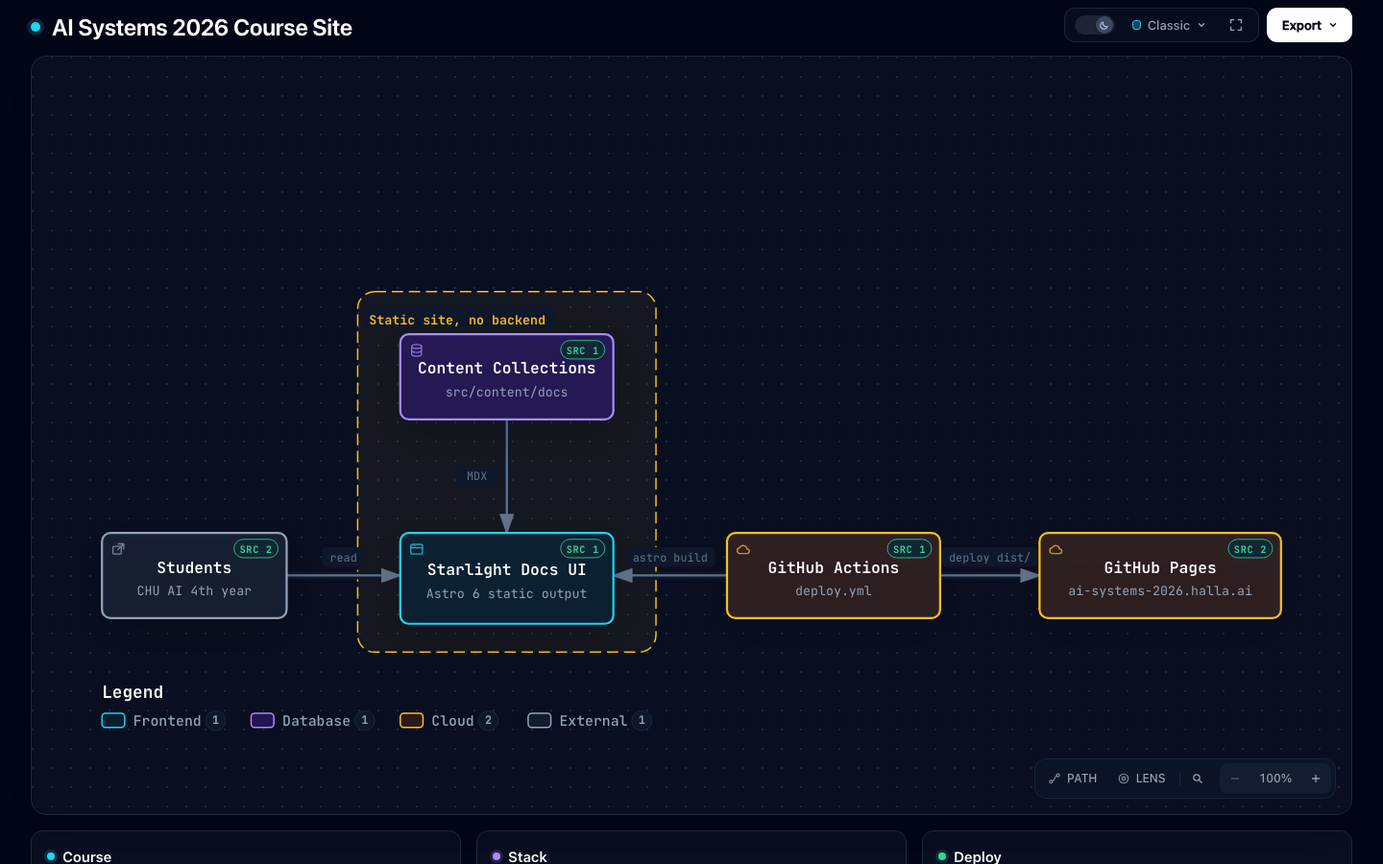
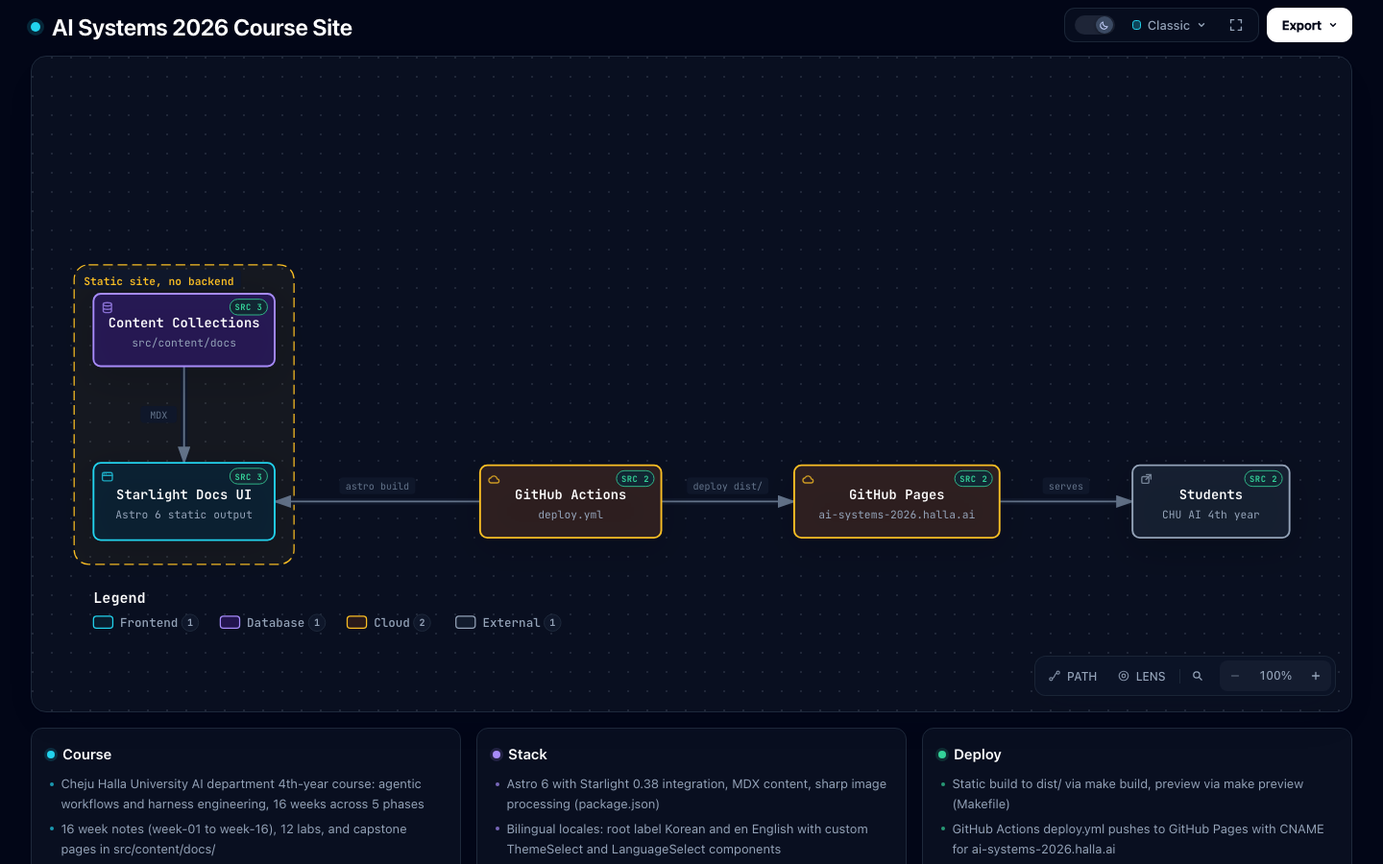
docs(archify): address pre-merge review findings
- Connect the served site to its readers truthfully: Students no longer
  read the docs UI directly; GitHub Pages now "serves" them, after
  Actions builds the site and deploys dist/. Reflowed into one row.
- actions: cite the push-to-main trigger (deploy.yml L3-6) behind the
  "push on main" tag.
- content: cite the sidebar lists of week-01..week-16 (astro.config.mjs
  L84-133) and lab-01..lab-12 (L135-154) behind "16 weeks + 12 labs".
- frontend: cite package.json L20-22 (astro ^6.1.3, starlight ^0.38.2)
  and src/styles/custom.css L41 (Space Grotesk site font).
- Tighten the boundary pad so the "astro build" label clears it.

Gates: finalize (validate, deliver, check, browser-check) pass with
--repo-root; visual-check pass with --require-provenance.

diff --git a/docs/ai-systems-2026-rendered.html b/docs/ai-systems-2026-rendered.html
@@ -4982,12 +4982,12 @@ OTHER DEALINGS IN THE FONT SOFTWARE.
       </div>
     </div>
 
-    <script id="archify-source-evidence-data" type="application/json">{"schemaVersion":1,"verified":true,"repository":{"url":"https://github.com/halla-ai/ai-systems-2026","revision":"c8fc01a9d5f91cdddad9e2bacbf1bbf4fe9ee9ef","shortRevision":"c8fc01a","label":"halla-ai/ai-systems-2026","href":"https://github.com/halla-ai/ai-systems-2026/tree/c8fc01a9d5f91cdddad9e2bacbf1bbf4fe9ee9ef"},"referenceCount":7,"nodes":{"actions":[{"path":".github/workflows/deploy.yml","line":18,"endLine":51,"label":"build job runs astro build","href":"https://github.com/halla-ai/ai-systems-2026/blob/c8fc01a9d5f91cdddad9e2bacbf1bbf4fe9ee9ef/.github/workflows/deploy.yml#L18-L51"}],"content":[{"path":"src/content.config.ts","line":5,"endLine":23,"label":"Starlight docs collection","href":"https://github.com/halla-ai/ai-systems-2026/blob/c8fc01a9d5f91cdddad9e2bacbf1bbf4fe9ee9ef/src/content.config.ts#L5-L23"}],"student":[{"path":"astro.config.mjs","line":48,"label":"course audience","href":"https://github.com/halla-ai/ai-systems-2026/blob/c8fc01a9d5f91cdddad9e2bacbf1bbf4fe9ee9ef/astro.config.mjs#L48"},{"path":"README.md","line":69,"endLine":76,"label":"assignment PRs","href":"https://github.com/halla-ai/ai-systems-2026/blob/c8fc01a9d5f91cdddad9e2bacbf1bbf4fe9ee9ef/README.md#L69-L76"}],"frontend":[{"path":"astro.config.mjs","line":16,"label":"starlight() integration","href":"https://github.com/halla-ai/ai-systems-2026/blob/c8fc01a9d5f91cdddad9e2bacbf1bbf4fe9ee9ef/astro.config.mjs#L16"}],"pages":[{"path":".github/workflows/deploy.yml","line":53,"endLine":63,"label":"deploy-pages job","href":"https://github.com/halla-ai/ai-systems-2026/blob/c8fc01a9d5f91cdddad9e2bacbf1bbf4fe9ee9ef/.github/workflows/deploy.yml#L53-L63"},{"path":"public/CNAME","line":1,"label":"custom domain","href":"https://github.com/halla-ai/ai-systems-2026/blob/c8fc01a9d5f91cdddad9e2bacbf1bbf4fe9ee9ef/public/CNAME#L1"}]}}</script>
+    <script id="archify-source-evidence-data" type="application/json">{"schemaVersion":1,"verified":true,"repository":{"url":"https://github.com/halla-ai/ai-systems-2026","revision":"c8fc01a9d5f91cdddad9e2bacbf1bbf4fe9ee9ef","shortRevision":"c8fc01a","label":"halla-ai/ai-systems-2026","href":"https://github.com/halla-ai/ai-systems-2026/tree/c8fc01a9d5f91cdddad9e2bacbf1bbf4fe9ee9ef"},"referenceCount":12,"nodes":{"actions":[{"path":".github/workflows/deploy.yml","line":3,"endLine":6,"label":"push to main trigger","href":"https://github.com/halla-ai/ai-systems-2026/blob/c8fc01a9d5f91cdddad9e2bacbf1bbf4fe9ee9ef/.github/workflows/deploy.yml#L3-L6"},{"path":".github/workflows/deploy.yml","line":18,"endLine":51,"label":"build job runs astro build","href":"https://github.com/halla-ai/ai-systems-2026/blob/c8fc01a9d5f91cdddad9e2bacbf1bbf4fe9ee9ef/.github/workflows/deploy.yml#L18-L51"}],"content":[{"path":"src/content.config.ts","line":5,"endLine":23,"label":"Starlight docs collection","href":"https://github.com/halla-ai/ai-systems-2026/blob/c8fc01a9d5f91cdddad9e2bacbf1bbf4fe9ee9ef/src/content.config.ts#L5-L23"},{"path":"astro.config.mjs","line":84,"endLine":133,"label":"week-01 to week-16 in sidebar","href":"https://github.com/halla-ai/ai-systems-2026/blob/c8fc01a9d5f91cdddad9e2bacbf1bbf4fe9ee9ef/astro.config.mjs#L84-L133"},{"path":"astro.config.mjs","line":135,"endLine":154,"label":"lab-01 to lab-12 in sidebar","href":"https://github.com/halla-ai/ai-systems-2026/blob/c8fc01a9d5f91cdddad9e2bacbf1bbf4fe9ee9ef/astro.config.mjs#L135-L154"}],"student":[{"path":"astro.config.mjs","line":48,"label":"course audience","href":"https://github.com/halla-ai/ai-systems-2026/blob/c8fc01a9d5f91cdddad9e2bacbf1bbf4fe9ee9ef/astro.config.mjs#L48"},{"path":"README.md","line":69,"endLine":76,"label":"assignment PRs","href":"https://github.com/halla-ai/ai-systems-2026/blob/c8fc01a9d5f91cdddad9e2bacbf1bbf4fe9ee9ef/README.md#L69-L76"}],"frontend":[{"path":"astro.config.mjs","line":16,"label":"starlight() integration","href":"https://github.com/halla-ai/ai-systems-2026/blob/c8fc01a9d5f91cdddad9e2bacbf1bbf4fe9ee9ef/astro.config.mjs#L16"},{"path":"package.json","line":20,"endLine":22,"label":"astro ^6.1.3, starlight ^0.38.2","href":"https://github.com/halla-ai/ai-systems-2026/blob/c8fc01a9d5f91cdddad9e2bacbf1bbf4fe9ee9ef/package.json#L20-L22"},{"path":"src/styles/custom.css","line":41,"label":"Space Grotesk site font","href":"https://github.com/halla-ai/ai-systems-2026/blob/c8fc01a9d5f91cdddad9e2bacbf1bbf4fe9ee9ef/src/styles/custom.css#L41"}],"pages":[{"path":".github/workflows/deploy.yml","line":53,"endLine":63,"label":"deploy-pages job","href":"https://github.com/halla-ai/ai-systems-2026/blob/c8fc01a9d5f91cdddad9e2bacbf1bbf4fe9ee9ef/.github/workflows/deploy.yml#L53-L63"},{"path":"public/CNAME","line":1,"label":"custom domain","href":"https://github.com/halla-ai/ai-systems-2026/blob/c8fc01a9d5f91cdddad9e2bacbf1bbf4fe9ee9ef/public/CNAME#L1"}]}}</script>
     <script id="archify-i18n-data" type="application/json">{"locale":"en","messages":{"viewer.kind.frontend":"Frontend","viewer.kind.backend":"Backend","viewer.kind.database":"Database","viewer.kind.cloud":"Cloud","viewer.kind.security":"Security","viewer.kind.messagebus":"Message bus","viewer.kind.external":"External","viewer.kind.neutral":"Neutral","viewer.kind.node":"Node","viewer.kind.start":"Start","viewer.kind.active":"Active","viewer.kind.waiting":"Waiting","viewer.kind.decision":"Decision","viewer.kind.success":"Success","viewer.kind.failure":"Failure","viewer.toolbar.actions":"Diagram actions","viewer.theme.toggle.title":"Toggle theme (T)","viewer.theme.toggle":"Toggle color theme","viewer.theme.dark":"Dark","viewer.theme.light":"Light","viewer.preset.choose.title":"Choose visual style (S cycles)","viewer.preset.choose":"Choose visual style","viewer.preset.style":"Style","viewer.preset.menu":"Visual style","viewer.preset.identity":"Visual identity","viewer.preset.cycles":"to cycle","viewer.preset.classic":"Classic","viewer.preset.classic.short":"Classic","viewer.preset.classic.hint":"Stable technical default","viewer.preset.flow":"Signal Flow","viewer.preset.flow.short":"Flow","viewer.preset.flow.hint":"Motion-forward presentation","viewer.preset.blueprint":"Blueprint","viewer.preset.blueprint.hint":"Engineering review","viewer.preset.editorial":"Editorial","viewer.preset.editorial.hint":"Publication and launch notes","viewer.preset.badge.signalFlow":"SIGNAL FLOW","viewer.preset.badge.blueprint":"BLUEPRINT / REV 01","viewer.preset.badge.editorial":"EDITORIAL / FIELD NOTE","viewer.preset.badge.editorialPlate":"ARCHIFY / PLATE 04","viewer.preset.current":"Visual style: {style}. Choose visual style","viewer.motion.live":"Live","viewer.motion.still":"Still","viewer.motion.pause":"Pause motion","viewer.motion.resume":"Resume motion","viewer.motion.reduced":"Motion paused by reduced-motion preference","viewer.motion.hidden":"Motion paused while this page is hidden","viewer.motion.yielding":"Pause motion; currently yielding to {owner}","viewer.motion.yielding.title":"Live preview enabled · yielding to {owner}","viewer.owner.route":"Route Probe","viewer.owner.lens":"Semantic Lens","viewer.owner.relationship":"Relationship Preview","viewer.owner.intent":"Intent Trace","viewer.owner.focus":"semantic focus","viewer.owner.legend":"legend preview","viewer.owner.reader":"reader interaction","viewer.present.enter":"Enter presentation stage","viewer.present.enter.title":"Presentation stage (F)","viewer.present.exit":"Exit presentation stage","viewer.present.exit.title":"Exit presentation stage (F or Escape)","viewer.present.present":"Present","viewer.present.exit.label":"Exit","viewer.export.button":"Export","viewer.export.button.title":"Export diagram (E)","viewer.export.diagram":"Export diagram","viewer.export.menu":"Export","viewer.export.subtitle":"Portable, clean outputs","viewer.export.share":"Share","viewer.export.shareCard":"Share Card","viewer.export.routeShareCard":"Route Share Card","viewer.export.reachShareCard":"Reach Share Card","viewer.export.copyDiagram":"Copy diagram","viewer.export.clipboardPng":"PNG to clipboard","viewer.export.raster":"Raster images","viewer.export.image":"Image","viewer.export.lossless":"Lossless image","viewer.export.compact":"Compact image","viewer.export.modern":"Modern image","viewer.export.vectorMotion":"Vector and motion","viewer.export.vectorMotion.heading":"Vector \u0026 motion","viewer.export.editable":"Editable vector","viewer.export.svg.auto":"SVG · Auto","viewer.export.svg.auto.hint":"Matches host theme","viewer.export.svg.light":"SVG · Light","viewer.export.svg.light.hint":"Always light","viewer.export.svg.dark":"SVG · Dark","viewer.export.svg.dark.hint":"Always dark","viewer.export.motion6s":"6s motion","viewer.export.unsupported":"Not supported by this browser","viewer.export.clipboardUnsupported":"Clipboard image write not supported by this browser","viewer.export.clipboardUnsupported.short":"Clipboard image write not supported in this browser.","viewer.export.motionUnavailable":"Motion capture unavailable in this browser","viewer.export.webmUnavailable":"WebM unavailable in this browser","viewer.export.failed":"Export failed: {message}","viewer.export.unknownVariant":"Unknown Share Card variant: {variant}","viewer.export.routeRequired":"Trace a route before exporting a Route Share Card","viewer.export.reachRequired":"Trace authored reach before exporting a Reach Share Card","viewer.export.unknown":"unknown","viewer.export.routeFailed":"Route Share Card export failed: {message}","viewer.export.reachFailed":"Reach Share Card export failed: {message}","viewer.export.copyFailed":"Copy failed: {message}","viewer.export.copiedPng":"Copied PNG to clipboard","viewer.export.downloadedRoute":"Downloaded Route Share Card","viewer.export.downloadedReach":"Downloaded Reach Share Card","viewer.export.downloadedWebm":"Downloaded WebM","viewer.export.recording":"Recording 6 seconds of motion…","viewer.export.card.routeSummary.one":"Path: {source} → {target} · {count} step","viewer.export.card.routeSummary.other":"Path: {source} → {target} · {count} steps","viewer.export.card.reachSummary":"Authored {direction} from {origin} · {nodes} · {links} · max {hops}","viewer.export.card.node.one":"{count} node","viewer.export.card.node.other":"{count} nodes","viewer.export.card.link.one":"{count} link","viewer.export.card.link.other":"{count} links","viewer.export.card.hop.one":"{count} hop","viewer.export.card.hop.other":"{count} hops","viewer.export.card.routeBadge":"ARCHIFY · ROUTE · {hops}","viewer.export.card.reachBadge":"ARCHIFY · {direction} REACH","viewer.export.direction.upstream":"Upstream","viewer.export.direction.downstream":"Downstream","viewer.export.error.canvasUnavailable":"Canvas unavailable for {label}","viewer.export.error.contextUnavailable":"2D canvas context unavailable for {label}","viewer.export.error.toBlobUnavailable":"canvas.toBlob unavailable for {label}","viewer.export.error.toBlobNull":"canvas.toBlob returned no data for {label}","viewer.export.error.variantsCombined":"Share Card variants cannot be combined","viewer.export.error.viewerState":"Share Card export could not remove temporary viewer state","viewer.export.error.routeState":"Route Card export could not preserve the resolved route safely","viewer.export.error.reachState":"Reach Card export could not preserve authored reach safely","viewer.export.error.webmRequirements":"WebM motion export requires a trace animation and browser MediaRecorder support","viewer.export.error.mediaRecorder":"MediaRecorder failed","viewer.export.error.emptyWebm":"MediaRecorder produced an empty WebM","viewer.export.error.webmBackground":"SVG background could not be loaded for WebM export","viewer.guide.title":"Explore this system","viewer.focus.selectedNodes":"{count} selected nodes","viewer.guide.eyebrow":"Diagram guide","viewer.guide.close":"Close diagram guide","viewer.guide.inspecting":"Inspecting compiled semantics","viewer.guide.actions":"Diagram exploration actions","viewer.guide.find":"Find any node","viewer.guide.find.hint":"Search labels, responsibilities, kinds, and stable IDs.","viewer.guide.route":"Trace a route","viewer.guide.route.aria":"Trace a directed route","viewer.guide.route.hint":"Ask how two semantic nodes connect in authored direction.","viewer.guide.map":"See the whole system","viewer.guide.map.hint":"Open Semantic Radar with a live viewport and stable nodes.","viewer.guide.lens":"Compare semantic kinds","viewer.guide.lens.hint":"Count roles, reveal their traffic, and compare direct authored links.","viewer.guide.present":"Enter Presentation Stage","viewer.guide.present.hint":"Give the live diagram the viewport without changing export.","viewer.guide.shortcuts":"Additional keyboard shortcuts","viewer.guide.shortcut.export":"Export","viewer.guide.shortcut.theme":"Theme","viewer.guide.shortcut.style":"Style","viewer.guide.shortcut.reset":"Reset","viewer.guide.shortcut.zoomIn":"Zoom in","viewer.guide.shortcut.zoomOut":"Zoom out","viewer.guide.shortcut.close":"Close","viewer.guide.facts":"{nodes} · {relationships}","viewer.guide.fact.node.one":"{count} semantic node","viewer.guide.fact.node.other":"{count} semantic nodes","viewer.guide.fact.relationship.one":"{count} relationship","viewer.guide.fact.relationship.other":"{count} relationships","viewer.guide.open":"Open diagram guide","viewer.finder.title":"Find a node","viewer.finder.close":"Close node finder","viewer.finder.placeholder":"Search labels or IDs","viewer.finder.search":"Search diagram nodes","viewer.finder.results":"Diagram nodes","viewer.finder.empty":"No matching nodes","viewer.finder.result.focus":"Focus {label}","viewer.finder.result.routeStart":"Choose {label} as route start","viewer.finder.result.routeTarget":"Choose {label} as route destination, {links}","viewer.finder.status.empty":"No matching nodes","viewer.finder.status.count.one":"{count} matching node","viewer.finder.status.count.other":"{count} matching nodes","viewer.finder.noun.nodes":"nodes","viewer.finder.link.one":"{count} link","viewer.finder.link.other":"{count} links","viewer.finder.result.focus.one":"Focus {label}, {count} related connection","viewer.finder.result.focus.other":"Focus {label}, {count} related connections","viewer.finder.status.filtered":"{visible} of {available} {noun}","viewer.finder.status.all":"{available} {noun}","viewer.passport.eyebrow":"Semantic passport","viewer.passport.metadata":"Node metadata","viewer.passport.evidence":"Verified source evidence","viewer.passport.verified":"Verified source","viewer.passport.verificationScope":"Verified against local Git at the pinned revision. Remote access has not been checked.","viewer.passport.reach":"Authored reach","viewer.passport.reach.trace":"Trace authored reachability","viewer.passport.upstream":"Upstream","viewer.passport.downstream":"Downstream","viewer.passport.upstream.trace":"Trace upstream authored reachability","viewer.passport.downstream.trace":"Trace downstream authored reachability","viewer.passport.close":"Close semantic passport","viewer.passport.move":"Move semantic passport. Drag, use arrow keys, or press Home to reset.","viewer.passport.copy":"Copy link","viewer.passport.copy.focus":"Copy link to focused node","viewer.passport.relations":"Relations","viewer.passport.relations.show":"Show connected relationships","viewer.passport.relations.hide":"Hide connected relationships","viewer.passport.relations.list":"Connected relationships","viewer.passport.copyRelation":"Copy relation","viewer.passport.copyNode":"Copy node","viewer.passport.copyPinned":"Copy link to pinned relationship","viewer.passport.copySource":"Copy link to source node","viewer.passport.copy.focused.success":"Focused node link copied","viewer.passport.copy.pinned.success":"Pinned relationship link copied","viewer.passport.copy.focused.failed":"Could not copy focused node link","viewer.passport.copy.pinned.failed":"Could not copy pinned relationship link","viewer.passport.relationship.none":"No connected relationships","viewer.passport.relationship.count.one":"{count} relation","viewer.passport.relationship.count.other":"{count} relations","viewer.passport.relationship.show.one":"Show {count} connected relationship","viewer.passport.relationship.show.other":"Show {count} connected relationships","viewer.passport.relationship.summary":"{out} outgoing · {in} incoming{loops}","viewer.passport.relationship.loops":" · {count} loop","viewer.passport.relationship.explorer":"Direct relationship explorer","viewer.passport.relationship.help":"Use arrow keys to explore relationships. Press Enter or Space to pin details; Escape clears.","viewer.passport.relationship.loopsBack":"loops back","viewer.passport.relationship.connectsTo":"connects to","viewer.passport.relationship.connectsFrom":"connects from","viewer.passport.relationship.pinned":"Pinned relationship · {from} → {to} · {label}","viewer.passport.relationship.inspect":"Inspect relationship {index} of {total}: {from} to {to}, {label}. Press Enter for details.","viewer.passport.relationship.group.out":"Outgoing","viewer.passport.relationship.group.in":"Incoming","viewer.passport.relationship.group.loop":"Self loops","viewer.passport.relationship.row":"{group}: {relationship}, {neighbor}","viewer.passport.relationship.direction.out":"OUT →","viewer.passport.relationship.direction.in":"← IN","viewer.passport.relationship.direction.loop":"LOOP","viewer.passport.sourceCount.one":"{count} verified source reference","viewer.passport.sourceCount.other":"{count} verified source references","viewer.passport.sourceMarker":"SRC","viewer.passport.beacon.one":"{count} verified source; focus this node to inspect","viewer.passport.beacon.other":"{count} verified sources; focus this node to inspect","viewer.passport.repository.open":"Open verified repository revision {revision}","viewer.passport.source.open":"Open verified source {path} at revision {revision}","viewer.passport.source.openLink":"Open ↗","viewer.passport.reach.upstream.one":"Trace {count} upstream authored node","viewer.passport.reach.upstream.other":"Trace {count} upstream authored nodes","viewer.passport.reach.downstream.one":"Trace {count} downstream authored node","viewer.passport.reach.downstream.other":"Trace {count} downstream authored nodes","viewer.passport.reach.noUpstream":"No upstream authored nodes","viewer.passport.reach.noDownstream":"No downstream authored nodes","viewer.passport.reach.status":"{direction} · {nodes} nodes · {links} links · max {hops} hops","viewer.route.eyebrow":"Path","viewer.route.start":"Click where the path starts","viewer.route.start.find":"Find start","viewer.route.start.find.aria":"Find a route start","viewer.route.copy":"Copy link","viewer.route.copy.aria":"Copy link to traced route","viewer.route.clear":"Clear","viewer.route.clear.aria":"Clear route probe","viewer.route.traced":"Path","viewer.route.pickTwo":"Click two nodes on the diagram","viewer.route.pickOne":"Click a node on the diagram","viewer.route.controls":"Route journey controls","viewer.route.previous":"Previous route position","viewer.route.play":"Play route journey","viewer.route.pause":"Pause route journey","viewer.route.replay":"Replay route journey","viewer.route.next":"Next route position","viewer.route.journey":"Journey","viewer.route.pause.label":"Pause","viewer.route.replay.label":"Replay","viewer.route.overview":"Overview","viewer.route.overview.aria":"Show complete route overview","viewer.route.instructions":"Click a start, then an end. Paths follow the arrows.","viewer.route.destination":"Where does the path from {label} end?","viewer.route.destination.find":"Find target","viewer.route.destination.find.aria":"Find a reachable route destination","viewer.route.differentDestination":"Choose a different destination","viewer.route.distinct":"Pick two different nodes.","viewer.route.unreachable":"Cannot reach {label} from here","viewer.route.unreachable.detail":"{target} cannot be reached from {source} along the arrows. Pick a highlighted node.","viewer.route.start.instructions":"Next, pick the end. Only nodes you can reach will light up.","viewer.route.copy.success":"Traced route link copied","viewer.route.copy.failed":"Could not copy traced route link","viewer.route.position":"Route position {index} of {total}: {label}","viewer.route.step":"Step {index} of {total} · {phase} · {label}","viewer.route.motionRequired":"Automatic journey requires Live motion","viewer.route.trigger.clear":"Clear traced route","viewer.route.overview.status":"{nodes} · {hops} · shortest path","viewer.route.overview.node.one":"{count} node","viewer.route.overview.node.other":"{count} nodes","viewer.route.overview.hop.one":"{count} step","viewer.route.overview.hop.other":"{count} steps","viewer.route.phase.playing":"Playing","viewer.route.phase.complete":"Complete","viewer.route.phase.inspecting":"Inspecting","viewer.route.destination.count.one":"{count} reachable node is highlighted. Click it.","viewer.route.destination.count.other":"{count} reachable nodes are highlighted. Click one.","viewer.route.noOutgoing":"No arrows lead out of this node. Clear it and pick another start.","viewer.route.result.title":"{source} to {target}","viewer.route.finder.source.title":"Choose route start","viewer.route.finder.source.placeholder":"Search route sources","viewer.route.finder.source.empty":"No matching route sources","viewer.route.finder.source.results":"Nodes that can start a route","viewer.route.finder.source.noun":"route sources","viewer.route.finder.source.badge":"start","viewer.route.finder.target.title":"Destination from {label}","viewer.route.finder.target.placeholder":"Search reachable destinations","viewer.route.finder.target.empty":"No matching reachable destinations","viewer.route.finder.target.results":"Reachable route destinations","viewer.route.finder.target.noun":"reachable destinations","viewer.route.hop.one":"{count} hop","viewer.route.hop.other":"{count} hops","viewer.lens.eyebrow":"Semantic lens","viewer.lens.title":"Compare system roles","viewer.lens.close":"Close semantic lens","viewer.lens.instruction":"Choose up to two semantic kinds. One reveals its real traffic; two compare only direct authored relationships.","viewer.lens.kinds":"Semantic kinds","viewer.lens.choose":"Choose a kind to inspect its nodes and touching relationships.","viewer.lens.copy":"Copy link to semantic lens","viewer.lens.clear":"Clear semantic lens","viewer.lens.open":"Open semantic lens","viewer.lens.openActive":"Open active semantic lens","viewer.lens.legend":"Semantic legend","viewer.lens.legend.inspect.one":"Inspect {label}, {count} node","viewer.lens.legend.inspect.other":"Inspect {label}, {count} nodes","viewer.lens.kind.count.one":"{label}, {count} node","viewer.lens.kind.count.other":"{label}, {count} nodes","viewer.lens.compare.one":"{first} → {second}: {forward} · {second} → {first}: {reverse} · {count} direct relationship","viewer.lens.compare.other":"{first} → {second}: {forward} · {second} → {first}: {reverse} · {count} direct relationships","viewer.lens.single":"{nodes} · {relationships} · connected peers remain visible","viewer.lens.node.one":"{count} {label} node","viewer.lens.node.other":"{count} {label} nodes","viewer.lens.relationship.one":"{count} touching relationship","viewer.lens.relationship.other":"{count} touching relationships","viewer.radar.title":"Semantic radar","viewer.radar.building":"Building overview","viewer.radar.openFull":"Open full semantic radar","viewer.radar.open":"Open radar","viewer.radar.close":"Close semantic radar","viewer.radar.surface":"Diagram overview. Click a node to focus it, or use arrow keys to pan.","viewer.radar.click":"Click node","viewer.radar.drag":"Drag to pan","viewer.radar.space":"Semantic radar needs more MAP space.","viewer.radar.nodes":"Semantic diagram radar nodes","viewer.radar.focus":"Focus {label} from Semantic Radar","viewer.radar.status":"{count} nodes · {viewport}","viewer.radar.fullMap":"{count} nodes · full map","viewer.radar.compacted":"Radar compacted to avoid covering the Semantic Passport or MAP controls.","viewer.radar.cancelWaiting":"Cancel semantic radar waiting for more MAP space","viewer.radar.needsSpace":"Semantic radar needs more visible MAP space","viewer.radar.viewport.full":"full map","viewer.radar.viewport.width":"{percent}% width","viewer.radar.viewport.scale":"{percent}% viewport","viewer.nav.controls":"Diagram view controls","viewer.nav.route":"Trace a directed route","viewer.nav.route.title":"Trace route (R)","viewer.nav.route.short":"PATH","viewer.nav.radar":"Open semantic radar","viewer.nav.radar.title":"Semantic radar (M)","viewer.nav.radar.short":"MAP","viewer.nav.lens":"Open semantic lens","viewer.nav.lens.title":"Semantic lens (L)","viewer.nav.lens.short":"LENS","viewer.nav.find":"Find a node","viewer.nav.find.title":"Find a node (/)","viewer.outline.title":"Node index","viewer.rail.show":"Notes \u0026 index","viewer.rail.controls":"Side panel","viewer.rail.collapse":"Collapse side panel","viewer.rail.bottom":"Move panel below the diagram","viewer.rail.right":"Move panel beside the diagram","viewer.nav.guide":"Open diagram guide","viewer.nav.guide.title":"Diagram guide (?)","viewer.nav.zoomOut":"Zoom out","viewer.nav.zoomOut.title":"Zoom out (-)","viewer.nav.reset":"Reset diagram view","viewer.nav.reset.title":"Reset view (0)","viewer.nav.read":"READ","viewer.nav.zoomIn":"Zoom in","viewer.nav.zoomIn.title":"Zoom in (+)","viewer.nav.camera":"{hint}. Reset diagram view","viewer.nav.camera.title":"{semantic}{hint} · reset view (0)","viewer.nav.camera.semantic":"Semantic camera active · ","viewer.nav.level.map":"MAP","viewer.nav.level.read":"READ","viewer.nav.level.full":"FULL","viewer.nav.level.auto":"AUTO","viewer.nav.detail.map":"Zoom in to reveal relationship labels and node context","viewer.nav.detail.read":"Zoom in again to reveal tags and annotations","viewer.nav.detail.full":"Full diagram detail","viewer.intent.summary":"{label}. {out} outgoing, {in} incoming{loops}. {total} connections. Press Enter for details.","viewer.intent.loops":", {count} self loop","viewer.common.copied":"Copied","viewer.common.copyFailed":"Copy failed","viewer.common.copyLink":"Copy link","viewer.common.clear":"Clear","viewer.common.close":"Close"}}</script>
     <!-- Main Diagram -->
     <div class="diagram-container" data-detail-level="read"
          data-preset-badge-editorial-plate="ARCHIFY / PLATE 04">
-      <svg viewBox="0 0 910 482" role="img" lang="en" aria-labelledby="archify-diagram-title archify-diagram-description" data-preset="classic" data-quality-profile="showcase" data-reader-fit="intrinsic-height" data-reader-min-text="7.5" data-reader-primary-text="14">
+      <svg viewBox="0 0 1070 482" role="img" lang="en" aria-labelledby="archify-diagram-title archify-diagram-description" data-preset="classic" data-quality-profile="showcase" data-reader-fit="intrinsic-height" data-reader-min-text="7.5" data-reader-primary-text="14">
         <title id="archify-diagram-title">AI Systems 2026 Course Site</title>
         <desc id="archify-diagram-description">An architecture diagram generated by Archify.</desc>
         <!-- Definitions -->
@@ -5013,113 +5013,113 @@ OTHER DEALINGS IN THE FONT SOFTWARE.
         <rect width="100%" height="100%" fill="url(#grid)" />
 
         <!-- Boundaries (behind everything) -->
-        <rect data-graph-role="structural-frame" data-composition-frame-kind="region" data-composition-frame-id="0" data-composition-frame-label="Static site, no backend" x="220" y="160" width="210" height="254" rx="12" class="c-region" stroke-width="1"/>
+        <rect data-graph-role="structural-frame" data-composition-frame-kind="region" data-composition-frame-id="0" data-composition-frame-label="Static site, no backend" x="24" y="166" width="182" height="248" rx="12" class="c-region" stroke-width="1"/>
 
         <!-- Connection paths (before components for correct z-order) -->
         <g data-graph-role="automatic-crossover" style="--step:0">
-          <path data-graph-role="automatic-crossover-underlay" d="M 480 360 L 400 360" fill="none" stroke="var(--mask)" stroke-width="5.5" stroke-linecap="round" stroke-linejoin="round" pointer-events="none"/>
-          <path data-edge-from="actions" data-edge-to="frontend" data-edge-label="astro build" data-edge-key="0" data-edge-id="actions-to-frontend" data-composition-points="480,360;400,360" data-composition-crossover="halo" data-composition-independent="true" d="M 480 360 L 400 360" class="a-default" stroke-width="1.5" marker-end="url(#arrowhead)"/>
+          <path data-graph-role="automatic-crossover-underlay" d="M 360 362 L 190 362" fill="none" stroke="var(--mask)" stroke-width="5.5" stroke-linecap="round" stroke-linejoin="round" pointer-events="none"/>
+          <path data-edge-from="actions" data-edge-to="frontend" data-edge-label="astro build" data-edge-key="0" data-edge-id="actions-to-frontend" data-composition-points="360,362;190,362" data-composition-crossover="halo" data-composition-independent="true" d="M 360 362 L 190 362" class="a-default" stroke-width="1.5" marker-end="url(#arrowhead)"/>
         </g>
         <g data-graph-role="automatic-crossover" style="--step:1">
-          <path data-graph-role="automatic-crossover-underlay" d="M 325 250 L 325 330" fill="none" stroke="var(--mask)" stroke-width="5.5" stroke-linecap="round" stroke-linejoin="round" pointer-events="none"/>
-          <path data-edge-from="content" data-edge-to="frontend" data-edge-label="MDX" data-edge-key="1" data-edge-id="content-to-frontend" data-composition-points="325,250;325,330" data-composition-crossover="halo" data-composition-independent="true" d="M 325 250 L 325 330" class="a-default" stroke-width="1.5" marker-end="url(#arrowhead)"/>
+          <path data-graph-role="automatic-crossover-underlay" d="M 115 250 L 115 330" fill="none" stroke="var(--mask)" stroke-width="5.5" stroke-linecap="round" stroke-linejoin="round" pointer-events="none"/>
+          <path data-edge-from="content" data-edge-to="frontend" data-edge-label="MDX" data-edge-key="1" data-edge-id="content-to-frontend" data-composition-points="115,250;115,330" data-composition-crossover="halo" data-composition-independent="true" d="M 115 250 L 115 330" class="a-default" stroke-width="1.5" marker-end="url(#arrowhead)"/>
         </g>
         <g data-graph-role="automatic-crossover" style="--step:2">
-          <path data-graph-role="automatic-crossover-underlay" d="M 170 360 L 250 360" fill="none" stroke="var(--mask)" stroke-width="5.5" stroke-linecap="round" stroke-linejoin="round" pointer-events="none"/>
-          <path data-edge-from="student" data-edge-to="frontend" data-edge-label="read" data-edge-key="2" data-edge-id="student-to-frontend" data-composition-points="170,360;250,360" data-composition-crossover="halo" data-composition-independent="true" d="M 170 360 L 250 360" class="a-default" stroke-width="1.5" marker-end="url(#arrowhead)"/>
+          <path data-graph-role="automatic-crossover-underlay" d="M 790 362 L 900 362" fill="none" stroke="var(--mask)" stroke-width="5.5" stroke-linecap="round" stroke-linejoin="round" pointer-events="none"/>
+          <path data-edge-from="pages" data-edge-to="student" data-edge-label="serves" data-edge-key="2" data-edge-id="pages-to-student" data-composition-points="790,362;900,362" data-composition-crossover="halo" data-composition-independent="true" d="M 790 362 L 900 362" class="a-default" stroke-width="1.5" marker-end="url(#arrowhead)"/>
         </g>
         <g data-graph-role="automatic-crossover" style="--step:3">
-          <path data-graph-role="automatic-crossover-underlay" d="M 630 360 L 700 360" fill="none" stroke="var(--mask)" stroke-width="5.5" stroke-linecap="round" stroke-linejoin="round" pointer-events="none"/>
-          <path data-edge-from="actions" data-edge-to="pages" data-edge-label="deploy dist/" data-edge-key="3" data-edge-id="actions-to-pages" data-composition-points="630,360;700,360" data-composition-crossover="halo" data-composition-independent="true" d="M 630 360 L 700 360" class="a-default" stroke-width="1.5" marker-end="url(#arrowhead)"/>
+          <path data-graph-role="automatic-crossover-underlay" d="M 510 362 L 620 362" fill="none" stroke="var(--mask)" stroke-width="5.5" stroke-linecap="round" stroke-linejoin="round" pointer-events="none"/>
+          <path data-edge-from="actions" data-edge-to="pages" data-edge-label="deploy dist/" data-edge-key="3" data-edge-id="actions-to-pages" data-composition-points="510,362;620,362" data-composition-crossover="halo" data-composition-independent="true" d="M 510 362 L 620 362" class="a-default" stroke-width="1.5" marker-end="url(#arrowhead)"/>
         </g>
 
         <!-- Components -->
         <g id="node-actions" data-node-id="actions" data-node-label="GitHub Actions" tabindex="0" role="button" aria-label="Focus GitHub Actions, deploy.yml, Architecture component" aria-pressed="false" data-node-kind="cloud" data-node-sublabel="deploy.yml" data-node-tag="push on main" data-node-context="Architecture component">
           <title>GitHub Actions · deploy.yml · Architecture component · push on main</title>
-          <rect x="480" y="330" width="150" height="60" rx="6" class="c-mask"/>
-          <rect x="480" y="330" width="150" height="60" rx="6" class="c-cloud" stroke-width="1.5"/>
-          <g aria-hidden="true" data-semantic-sigil="cloud" class="semantic-sigil s-cloud" transform="translate(486 336) scale(0.6875)">
+          <rect x="360" y="332" width="150" height="60" rx="6" class="c-mask"/>
+          <rect x="360" y="332" width="150" height="60" rx="6" class="c-cloud" stroke-width="1.5"/>
+          <g aria-hidden="true" data-semantic-sigil="cloud" class="semantic-sigil s-cloud" transform="translate(366 338) scale(0.6875)">
             <path d="M4.3 12.5h7.3a2.4 2.4 0 0 0 .2-4.8 4 4 0 0 0-7.5-1.3A3.1 3.1 0 0 0 4.3 12.5Z"/>
           </g>
-          <text data-node-label="" data-detail-anchor="" x="555" y="358" class="t-primary" font-size="11" font-weight="600" text-anchor="middle">GitHub Actions</text>
-        <text data-detail="context" x="555" y="374" class="t-muted" font-size="9" text-anchor="middle">deploy.yml</text>
-        <text data-detail="fine" x="555" y="382" class="t-cloud" font-size="7" text-anchor="middle">push on main</text>
+          <text data-node-label="" data-detail-anchor="" x="435" y="360" class="t-primary" font-size="11" font-weight="600" text-anchor="middle">GitHub Actions</text>
+        <text data-detail="context" x="435" y="376" class="t-muted" font-size="9" text-anchor="middle">deploy.yml</text>
+        <text data-detail="fine" x="435" y="384" class="t-cloud" font-size="7" text-anchor="middle">push on main</text>
         </g>
 
         <g id="node-content" data-node-id="content" data-node-label="Content Collections" tabindex="0" role="button" aria-label="Focus Content Collections, src/content/docs, Static site, no backend" aria-pressed="false" data-node-kind="database" data-node-sublabel="src/content/docs" data-node-tag="16 weeks + 12 labs" data-node-context="Static site, no backend">
           <title>Content Collections · src/content/docs · Static site, no backend · 16 weeks + 12 labs</title>
-          <rect x="250" y="190" width="150" height="60" rx="6" class="c-mask"/>
-          <rect x="250" y="190" width="150" height="60" rx="6" class="c-database" stroke-width="1.5"/>
-          <g aria-hidden="true" data-semantic-sigil="database" class="semantic-sigil s-database" transform="translate(256 196) scale(0.6875)">
+          <rect x="40" y="190" width="150" height="60" rx="6" class="c-mask"/>
+          <rect x="40" y="190" width="150" height="60" rx="6" class="c-database" stroke-width="1.5"/>
+          <g aria-hidden="true" data-semantic-sigil="database" class="semantic-sigil s-database" transform="translate(46 196) scale(0.6875)">
             <ellipse cx="8" cy="4" rx="5" ry="2"/>
             <path d="M3 4v8c0 1.1 2.2 2 5 2s5-.9 5-2V4M3 8c0 1.1 2.2 2 5 2s5-.9 5-2"/>
           </g>
-          <text data-node-label="" data-detail-anchor="" x="325" y="218" class="t-primary" font-size="11" font-weight="600" text-anchor="middle">Content Collections</text>
-        <text data-detail="context" x="325" y="234" class="t-muted" font-size="9" text-anchor="middle">src/content/docs</text>
-        <text data-detail="fine" x="325" y="242" class="t-database" font-size="7" text-anchor="middle">16 weeks + 12 labs</text>
+          <text data-node-label="" data-detail-anchor="" x="115" y="218" class="t-primary" font-size="11" font-weight="600" text-anchor="middle">Content Collections</text>
+        <text data-detail="context" x="115" y="234" class="t-muted" font-size="9" text-anchor="middle">src/content/docs</text>
+        <text data-detail="fine" x="115" y="242" class="t-database" font-size="7" text-anchor="middle">16 weeks + 12 labs</text>
         </g>
 
         <g id="node-student" data-node-id="student" data-node-label="Students" tabindex="0" role="button" aria-label="Focus Students, CHU AI 4th year, Architecture component" aria-pressed="false" data-node-kind="external" data-node-sublabel="CHU AI 4th year" data-node-context="Architecture component">
           <title>Students · CHU AI 4th year · Architecture component</title>
-          <rect x="40" y="330" width="130" height="60" rx="6" class="c-mask"/>
-          <rect x="40" y="330" width="130" height="60" rx="6" class="c-external" stroke-width="1.5"/>
-          <g aria-hidden="true" data-semantic-sigil="external" class="semantic-sigil s-external" transform="translate(46 336) scale(0.6875)">
+          <rect x="900" y="332" width="130" height="60" rx="6" class="c-mask"/>
+          <rect x="900" y="332" width="130" height="60" rx="6" class="c-external" stroke-width="1.5"/>
+          <g aria-hidden="true" data-semantic-sigil="external" class="semantic-sigil s-external" transform="translate(906 338) scale(0.6875)">
             <rect x="2.5" y="5" width="8.5" height="8" rx="1.5"/>
             <path d="M8 2.5h5.5V8M13.5 2.5 7.5 8.5"/>
           </g>
-          <text data-node-label="" data-detail-anchor="" x="105" y="358" class="t-primary" font-size="11" font-weight="600" text-anchor="middle">Students</text>
-        <text data-detail="context" x="105" y="374" class="t-muted" font-size="9" text-anchor="middle">CHU AI 4th year</text>
+          <text data-node-label="" data-detail-anchor="" x="965" y="360" class="t-primary" font-size="11" font-weight="600" text-anchor="middle">Students</text>
+        <text data-detail="context" x="965" y="376" class="t-muted" font-size="9" text-anchor="middle">CHU AI 4th year</text>
         </g>
 
         <g id="node-frontend" data-node-id="frontend" data-node-label="Starlight Docs UI" tabindex="0" role="button" aria-label="Focus Starlight Docs UI, Astro 6 static output, Static site, no backend" aria-pressed="false" data-node-kind="frontend" data-node-sublabel="Astro 6 static output" data-node-tag="MDX + Space Grotesk" data-node-context="Static site, no backend">
           <title>Starlight Docs UI · Astro 6 static output · Static site, no backend · MDX + Space Grotesk</title>
-          <rect x="250" y="330" width="150" height="64" rx="6" class="c-mask"/>
-          <rect x="250" y="330" width="150" height="64" rx="6" class="c-frontend" stroke-width="1.5"/>
-          <g aria-hidden="true" data-semantic-sigil="frontend" class="semantic-sigil s-frontend" transform="translate(256 336) scale(0.6875)">
+          <rect x="40" y="330" width="150" height="64" rx="6" class="c-mask"/>
+          <rect x="40" y="330" width="150" height="64" rx="6" class="c-frontend" stroke-width="1.5"/>
+          <g aria-hidden="true" data-semantic-sigil="frontend" class="semantic-sigil s-frontend" transform="translate(46 336) scale(0.6875)">
             <rect x="2" y="3" width="12" height="10" rx="2"/>
             <path d="M2 6.5h12"/>
             <circle cx="4.1" cy="4.8" r=".7" class="sigil-fill"/>
             <circle cx="6.3" cy="4.8" r=".7" class="sigil-fill"/>
           </g>
-          <text data-node-label="" data-detail-anchor="" x="325" y="360" class="t-primary" font-size="11" font-weight="600" text-anchor="middle">Starlight Docs UI</text>
-        <text data-detail="context" x="325" y="376" class="t-muted" font-size="9" text-anchor="middle">Astro 6 static output</text>
-        <text data-detail="fine" x="325" y="386" class="t-frontend" font-size="7" text-anchor="middle">MDX + Space Grotesk</text>
+          <text data-node-label="" data-detail-anchor="" x="115" y="360" class="t-primary" font-size="11" font-weight="600" text-anchor="middle">Starlight Docs UI</text>
+        <text data-detail="context" x="115" y="376" class="t-muted" font-size="9" text-anchor="middle">Astro 6 static output</text>
+        <text data-detail="fine" x="115" y="386" class="t-frontend" font-size="7" text-anchor="middle">MDX + Space Grotesk</text>
         </g>
 
         <g id="node-pages" data-node-id="pages" data-node-label="GitHub Pages" tabindex="0" role="button" aria-label="Focus GitHub Pages, ai-systems-2026.halla.ai, Architecture component" aria-pressed="false" data-node-kind="cloud" data-node-sublabel="ai-systems-2026.halla.ai" data-node-tag="CNAME" data-node-context="Architecture component">
           <title>GitHub Pages · ai-systems-2026.halla.ai · Architecture component · CNAME</title>
-          <rect x="700" y="330" width="170" height="60" rx="6" class="c-mask"/>
-          <rect x="700" y="330" width="170" height="60" rx="6" class="c-cloud" stroke-width="1.5"/>
-          <g aria-hidden="true" data-semantic-sigil="cloud" class="semantic-sigil s-cloud" transform="translate(706 336) scale(0.6875)">
+          <rect x="620" y="332" width="170" height="60" rx="6" class="c-mask"/>
+          <rect x="620" y="332" width="170" height="60" rx="6" class="c-cloud" stroke-width="1.5"/>
+          <g aria-hidden="true" data-semantic-sigil="cloud" class="semantic-sigil s-cloud" transform="translate(626 338) scale(0.6875)">
             <path d="M4.3 12.5h7.3a2.4 2.4 0 0 0 .2-4.8 4 4 0 0 0-7.5-1.3A3.1 3.1 0 0 0 4.3 12.5Z"/>
           </g>
-          <text data-node-label="" data-detail-anchor="" x="785" y="358" class="t-primary" font-size="11" font-weight="600" text-anchor="middle">GitHub Pages</text>
-        <text data-detail="context" x="785" y="374" class="t-muted" font-size="9" text-anchor="middle">ai-systems-2026.halla.ai</text>
-        <text data-detail="fine" x="785" y="382" class="t-cloud" font-size="7" text-anchor="middle">CNAME</text>
+          <text data-node-label="" data-detail-anchor="" x="705" y="360" class="t-primary" font-size="11" font-weight="600" text-anchor="middle">GitHub Pages</text>
+        <text data-detail="context" x="705" y="376" class="t-muted" font-size="9" text-anchor="middle">ai-systems-2026.halla.ai</text>
+        <text data-detail="fine" x="705" y="384" class="t-cloud" font-size="7" text-anchor="middle">CNAME</text>
         </g>
 
         <!-- Connection labels -->
         <g data-detail="context" data-edge-from="actions" data-edge-to="frontend" data-edge-label="astro build" data-edge-key="0" data-edge-id="actions-to-frontend">
-          <rect x="408.6" y="340" width="62.8" height="14" rx="3" class="c-mask"/>
-          <text x="440" y="350" class="t-edge-default" font-size="8" text-anchor="middle">astro build</text>
+          <rect x="243.6" y="342" width="62.8" height="14" rx="3" class="c-mask"/>
+          <text x="275" y="352" class="t-edge-default" font-size="8" text-anchor="middle">astro build</text>
         </g>
         <g data-detail="context" data-edge-from="content" data-edge-to="frontend" data-edge-label="MDX" data-edge-key="1" data-edge-id="content-to-frontend">
-          <rect x="289" y="283" width="30" height="14" rx="3" class="c-mask"/>
-          <text x="304" y="293" class="t-edge-default" font-size="8" text-anchor="middle">MDX</text>
+          <rect x="79" y="283" width="30" height="14" rx="3" class="c-mask"/>
+          <text x="94" y="293" class="t-edge-default" font-size="8" text-anchor="middle">MDX</text>
         </g>
-        <g data-detail="context" data-edge-from="student" data-edge-to="frontend" data-edge-label="read" data-edge-key="2" data-edge-id="student-to-frontend">
-          <rect x="195" y="340" width="30" height="14" rx="3" class="c-mask"/>
-          <text x="210" y="350" class="t-edge-default" font-size="8" text-anchor="middle">read</text>
+        <g data-detail="context" data-edge-from="pages" data-edge-to="student" data-edge-label="serves" data-edge-key="2" data-edge-id="pages-to-student">
+          <rect x="825.6" y="342" width="38.8" height="14" rx="3" class="c-mask"/>
+          <text x="845" y="352" class="t-edge-default" font-size="8" text-anchor="middle">serves</text>
         </g>
         <g data-detail="context" data-edge-from="actions" data-edge-to="pages" data-edge-label="deploy dist/" data-edge-key="3" data-edge-id="actions-to-pages">
-          <rect x="631.2" y="340" width="67.6" height="14" rx="3" class="c-mask"/>
-          <text x="665" y="350" class="t-edge-default" font-size="8" text-anchor="middle">deploy dist/</text>
+          <rect x="531.2" y="342" width="67.6" height="14" rx="3" class="c-mask"/>
+          <text x="565" y="352" class="t-edge-default" font-size="8" text-anchor="middle">deploy dist/</text>
         </g>
 
         <!-- Boundary labels (foreground masks keep routes out of titles) -->
         <g data-graph-role="structural-frame-label" data-composition-frame-id="0" data-composition-frame-kind="region" data-composition-frame-label="Static site, no backend">
-          <rect data-graph-role="structural-frame-label-mask" x="224" y="170" width="134.2" height="16" rx="3" class="c-mask"/>
-          <text data-boundary-label="" x="228" y="183" class="t-cloud" font-size="9" font-weight="600">Static site, no backend</text>
+          <rect data-graph-role="structural-frame-label-mask" x="28" y="170" width="134.2" height="16" rx="3" class="c-mask"/>
+          <text data-boundary-label="" x="32" y="183" class="t-cloud" font-size="9" font-weight="600">Static site, no backend</text>
         </g>
 
         <!-- Legend -->
